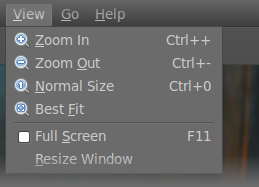
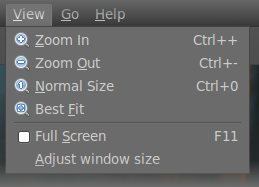
Regular update

Changed region(s): [[0.6178, 0.1337, 0.9884, 0.9358], [0.1236, 0.8021, 0.6178, 0.9091]]

diff --git a/index.html b/index.html
@@ -50,6 +50,8 @@ your images. Among its features are:</p>
 and by <a onclick="window.open(this.href); return false;" href="http://lxde.sourceforge.net/gpicview/">GPicView</a>, because of it's lightweight design and minimal interface. So here comes
 Viewnior - small and light, with no compromise with the quality of it's functions.
 The program is made with better integration in mind (follows <a onclick="window.open(this.href); return false;" href="http://library.gnome.org/devel/hig-book/stable/">Gnome HIG2</a>)</p>
+<p>Viewnior uses modified version of the <a onclick="window.open(this.href); return false;" href="http://trac.bjourne.webfactional.com/">GtkImageView</a>
+library by Bjourn Lindqvist. Without it, Viewnior would be nothing.</p>
 <p>You can always file a bug, make a blueprint or ask a question at
 <a onclick="window.open(this.href); return false;" href="http://launchpad.net/viewnior">Launchpad</a></p>
 </div>
@@ -64,6 +66,7 @@ The program is made with better integration in mind (follows <a onclick="window.
 <li><a href="#faq5">Is Viewnior suitable for default image viewer?</a></li>
 <li><a href="#faq6">How can I translate Viewnior?</a></li>
 <li><a href="#faq7">How can I zoom only using the mouse?</a></li>
+<li><a href="#faq7">What is that "Set As Wallpaper support" you are talking about?</a></li>
 </ul>
 <p id="faq1"><h6>What do i need to compile Viewnior?</h6>Viewnior depends only on gtk+-2.0 (it contains everything needed).</p>
 <p id="faq2"><h6>Is Viewnior available for Windows/MacOSX?</h6>No, at this time, no. Viewnior is made with portabilty in mind and is tested only under GNU/Linux.
@@ -72,8 +75,11 @@ If you'd like to test/compile it under other platforms, you are welcome. In case
 Developers wishing to give a helping hand can <a href="#contacts">contact me.</a></p>
 <p id="faq4"><h6>I have an idea/suggestion. How can I share it with you?</h6>You can always file a bug, make a blueprint or ask a question at <a onclick="window.open(this.href); return false;" href="http://launchpad.net/viewnior">Launchpad</a></p>
 <p id="faq5"><h6>Is Viewnior suitable for default image viewer?</h6>Yes, it is. It has all the basic features for a everyday use. See <a href="#todo">To Do</a>.</p>
-<p id="faq6"><h6>How can I translate Viewnior?</h6>The best way to do it is at <a onclick="window.open(this.href); return false;" href="http://launchpad.net/viewnior">Launchpad</a></p>
-<p id="faq6"><h6>How can I zoom only using the mouse?</h6>Use the scroll to zoom in/out. To toggle Best Fit/Normal Size just double click on the image! After some practice, this becomes Addictive!</p>
+<p id="faq6"><h6>How can I translate Viewnior?</h6>You can do it at <a onclick="window.open(this.href); return false;" href="http://launchpad.net/viewnior">Launchpad</a></p>
+<p id="faq7"><h6>How can I zoom only using the mouse?</h6>Use the scroll to zoom in/out. To toggle Best Fit/Normal Size just double click on the image! After some practice, this becomes Addictive!</p>
+<p id="faq8"><h6>What is that "Set As Wallpaper support" you are talking about?</h6>This is an optional feature. If enabled (at compile time), it puts
+an option in the File menu, which allows you to change your existing background image with the one, you are viewing. Note, that this feature is
+made to work only under Gnome! So, if you use Gnome, make sure to pass "--enable-wallpaper" argument to the configure script!</p>
 </div>
 
 <div id="todo" class="section">

diff --git a/new.html b/new.html
@@ -79,9 +79,9 @@ Viewing a potentially good wallpaper? File -> Set as wallpaper will do the work 
 
 <div class="section">
 <img src="vnr-view.png" alt="Viewnior's View menu"  class="scrshot_a"/>
-<h2>Resize Window</h2>
+<h2>Adjust window size</h2>
 <p>Want your picture to perfectly fit the window? Maybe resizing the window is the key!
-Clicking "Resize Window" will make the window look like you just opened the image - no redundant space!
+Clicking "Adjust window size" will make the window look like you just opened the image - no redundant space!
 Isn't that what we all want? More Screen space!</p>
 </div>
 
